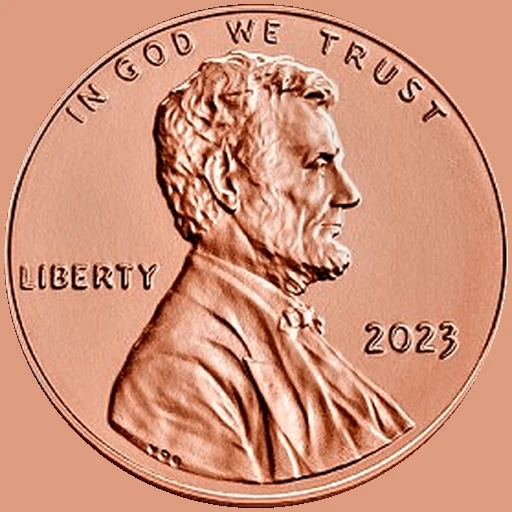
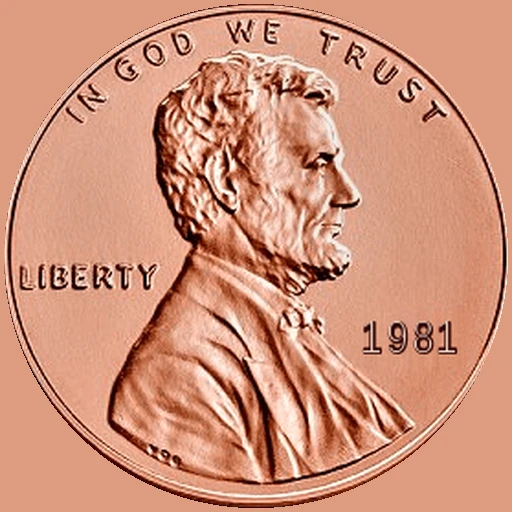
Date the penny 1981
The obverse's date box is refilled with the field and redrawn as 1981 at the
old date's size and spacing (_penny/redate.py), then the obverse maps are
remade from that image.

Changed region(s): [[0.6875, 0.625, 0.9062, 0.7188]]

diff --git a/_penny/redate.py b/_penny/redate.py
@@ -1,0 +1,43 @@
+# Replace the 2023 on the Mint's cent image with 1981, drawn the way the
+# image draws its own date: a dark contour with a bright core, lit from the
+# upper left, so the coin carries his birth year. Run from _penny/:
+#   python3 redate.py source/us-mint-cent.png source/us-mint-cent-1981.png LiberationSans-Regular.ttf
+import sys, numpy as np
+from PIL import Image, ImageDraw, ImageFont, ImageFilter
+src, out, fontp = sys.argv[1:4]
+a = np.asarray(Image.open(src).convert('RGB')).astype(float)
+x0, x1, y0, y1 = 207, 268, 183, 209
+top = a[y0-3:y0, x0:x1].mean(0); bot = a[y1:y1+3, x0:x1].mean(0)
+rng = np.random.default_rng(7)
+for y in range(y0, y1):
+    t = (y-y0)/(y1-y0)
+    a[y, x0:x1] = top*(1-t) + bot*t + rng.normal(0, 2.5, (x1-x0, 1))
+S = 8; pad = 4
+W, H = (x1-x0+2*pad)*S, (y1-y0+2*pad)*S
+font = ImageFont.truetype(fontp, 24*S)
+def glyphs(dx=0, dy=0, sw=0):
+    m = Image.new('L', (W, H), 0); d = ImageDraw.Draw(m)
+    for ch, lx in zip('1981', [210, 224, 238, 251]):
+        g = Image.new('L', (40*S, 40*S), 0); gd = ImageDraw.Draw(g)
+        gd.text((4*S, 2*S), ch, fill=255, font=font, stroke_width=sw, stroke_fill=255)
+        bb = g.getbbox(); g = g.crop(bb)
+        # every digit to the old cap height (18px) and a 10px cell, a touch condensed
+        h = 18*S; w = int(g.width*h/g.height*0.86)
+        g = g.resize((w, h), Image.LANCZOS)
+        cx = (lx - x0 + pad)*S + (10*S - w)//2
+        m.paste(255, (int(cx+dx*S), int((186-y0+pad+dy)*S)), g)
+    return np.asarray(m).astype(float)/255
+def down(m): return m.reshape(H//S, S, W//S, S).mean((1, 3))
+outer = down(glyphs(sw=S))                      # stroke plus a pixel: the contour
+core  = down(glyphs(-0.35, -0.35, sw=-0) )      # the glyph itself, nudged to the light
+core  = np.clip(core*1.0, 0, 1)
+inner = down(glyphs(-0.45, -0.45))
+# a thinner bright line inside the stroke
+thin = np.asarray(Image.fromarray((glyphs(-0.45,-0.45)*255).astype(np.uint8)).filter(ImageFilter.MinFilter(int(S*0.9)//2*2+1))).astype(float)/255
+thin = down(thin)
+light = np.array([255, 232, 214.]); dark = np.array([50, 6, 4.])
+reg = a[y0-pad:y1+pad, x0-pad:x1+pad]
+reg = reg*(1-outer[..., None]) + dark*outer[..., None]
+reg = reg*(1-0.9*thin[..., None]) + light*0.9*thin[..., None]
+a[y0-pad:y1+pad, x0-pad:x1+pad] = reg
+Image.fromarray(np.clip(a, 0, 255).astype(np.uint8)).save(out)

diff --git a/_penny/maps.py b/_penny/maps.py
@@ -2,6 +2,8 @@
 # cent (source/us-mint-cent.png). Writes colour, normal and roughness maps for
 # each face into the current directory; run from images/penny/:
 #   python3 ../../_penny/maps.py ../../_penny/source/us-mint-cent.png
+# The obverse in use is dated 1981, made by redate.py
+# (source/us-mint-cent-1981.png); only obverse-*.webp come from that one.
 #
 # Colour keeps the coin but flattens half the studio lighting baked into the
 # render, so the scene's own light does the shading. Relief is the fine detail
